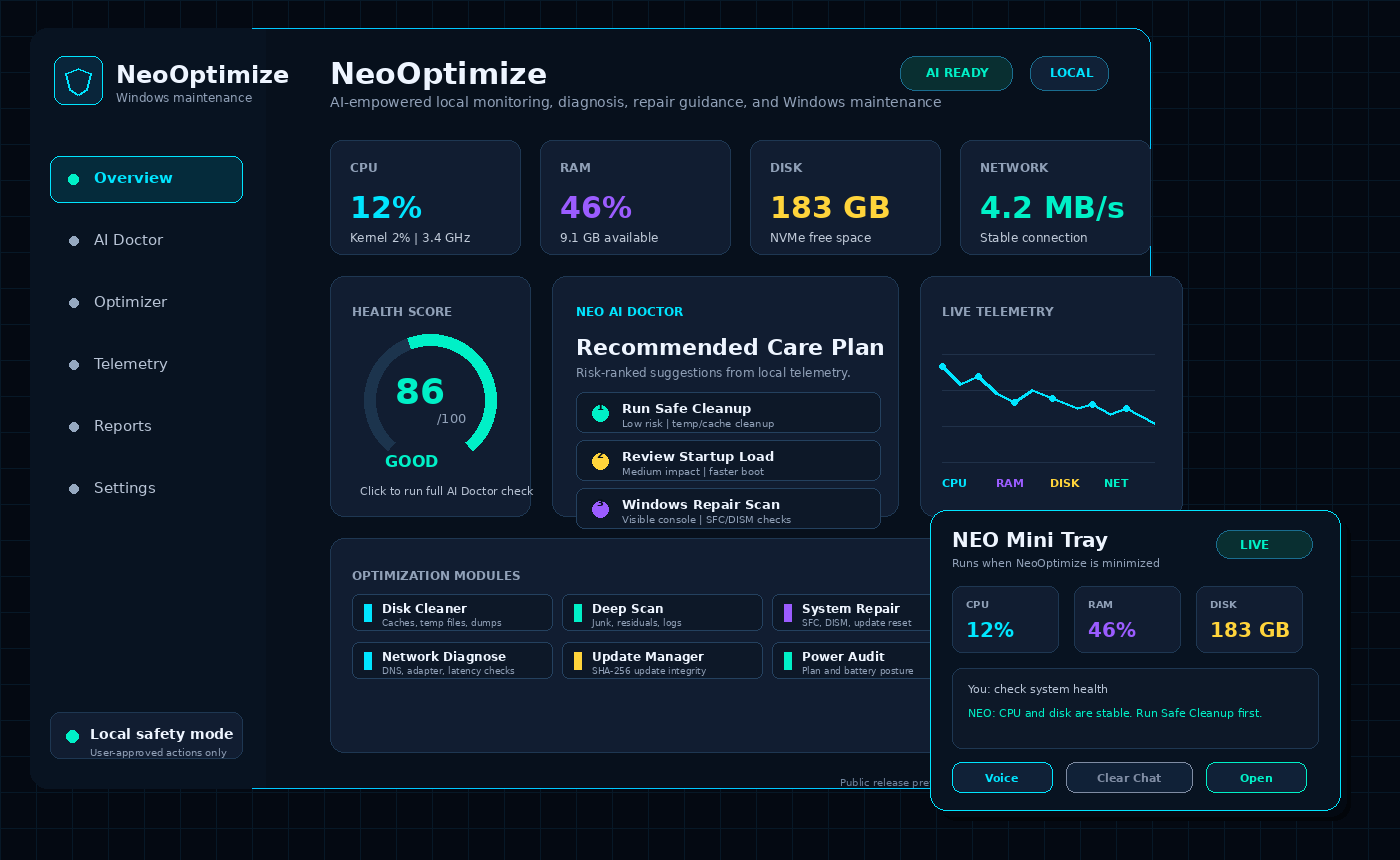
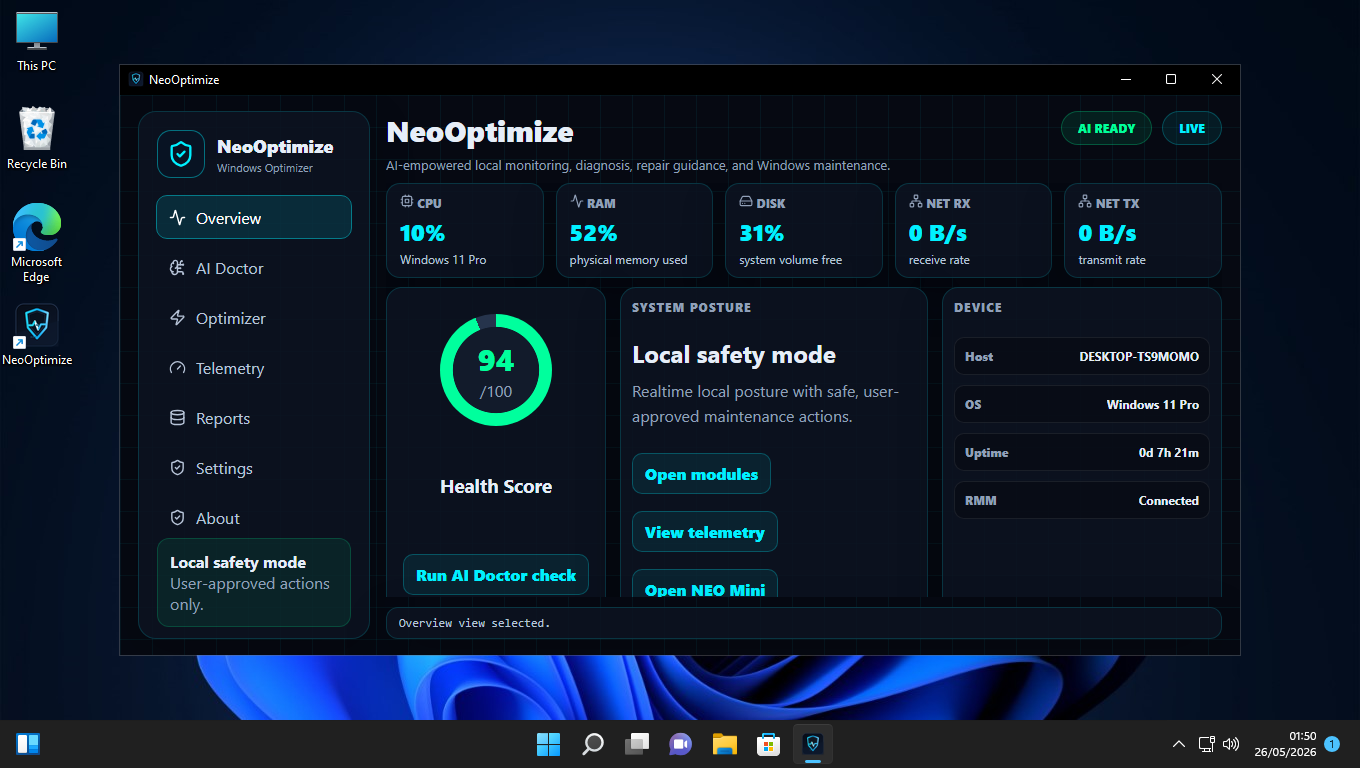
Release NeoOptimize v1.0.3

diff --git a/README.md b/README.md
@@ -5,18 +5,21 @@ local diagnostics, safe cleanup, repair guidance, update integrity checks,
 real-time system monitoring, and before/after maintenance reporting.
 
 The public release focuses on the NeoOptimize desktop application, local safety
-workflow, mini tray companion, update manager, and NEO local assistant features.
+workflow, mini tray companion, update manager, NEO local assistant features, and
+RMM release-gate validation.
 
-![NeoOptimize dashboard and mini tray](assets/neooptimize-screenshot.png)
+![NeoOptimize running in a Windows VM with RMM connected](assets/neooptimize-screenshot.png)
+
+_Latest release-gate screenshot captured from the Windows VM validation run._
 
 ## Download
 
 | Item | Value |
 | --- | --- |
-| Version | `1.0.0` |
+| Version | `1.0.3` |
 | Installer | `NeoOptimize.exe` |
[1 lines of base64/hex data omitted]
-| Release | https://github.com/NeoOptimize/NeoOptimize/releases/tag/v1.0.0 |
[1 lines of base64/hex data omitted]
+| Release | https://github.com/NeoOptimize/NeoOptimize/releases/tag/v1.0.3 |
 
 Verify the installer before running it:
 
@@ -27,7 +30,7 @@ Get-FileHash .\NeoOptimize.exe -Algorithm SHA256
 The hash must match:
 
 ```text
[2 lines of base64/hex data omitted]
 ```
 
 ## What NeoOptimize Does
@@ -54,11 +57,12 @@ Core goals:
 | Main desktop UI | Central dashboard for monitoring, AI Doctor, optimization modules, reports, settings, and update checks. |
 | Mini tray companion | Compact lower-right monitor for CPU, RAM, disk, NEO chat, voice command, clear chat, and quick-open actions. |
 | AI Doctor | Converts local telemetry into a risk-ranked care plan with practical maintenance recommendations. |
-| Optimizer modules | Runs guided cleanup, diagnostics, repair, privacy review, update audit, power audit, and benchmark workflows. |
+| Optimizer modules | Runs guided cleanup, diagnostics, repair, debloat review, privacy review, update audit, power audit, and benchmark workflows. |
 | Safety engine | Keeps privileged actions visible, confirmation-gated, and separated from read-only scans. |
 | Update Manager | Checks release metadata, verifies SHA-256 integrity, installs updates, and repairs damaged installs. |
 | Report engine | Generates local reports for health checks, benchmark results, repairs, and maintenance history. |
 | NEO assistant | Local AI workflow for text guidance, voice entry, anomaly explanation, and script planning assistance. |
+| RMM release gate | Verifies local health probes, Prometheus metrics, dashboard routes, installer download, and VM evidence before release. |
 
 ## Main Features
 
@@ -150,15 +154,35 @@ cannot be silently replaced without detection.
 | Disk Cleaner | Removes temporary files, caches, dumps, logs, and common residual files. |
 | Deep Scan | Searches deeper junk locations before removal and reports findings first. |
 | System Repair | Guides SFC, DISM, WinRE, boot repair, and Windows Update reset workflows. |
+| Windows Repair | Runs conservative Windows repair planning for image, file integrity, recovery, and service state issues. |
+| Update Repair | Reviews Windows Update component health and prepares confirmation-gated repair actions. |
 | Privacy Review | Reviews telemetry-related settings and application permission posture. |
 | Network Diagnose | Checks adapter state, DNS, latency, routing, and connectivity symptoms. |
+| Containerization & Hyper-V | Audits WSL2, Hyper-V, virtualization, and container-related performance posture. |
+| Zero-Trust Security | Reviews Defender, firewall, ASR, SMB, TLS, UAC, exploit protection, and credential protection posture. |
+| Game Mode Ultra | Reviews gaming-related CPU, GPU, scheduler, power, and latency settings before applying high-impact changes. |
+| AI & NPU Caching | Audits local AI, NPU, memory pressure, and model-cache limits for workstation tuning. |
+| NVMe DirectStorage & Storage Tiering | Reviews SSD health, TRIM, BypassIO/DirectStorage readiness, and storage tiering posture. |
 | Update Audit | Reviews Windows Update state and repair options. |
 | Power Audit | Reviews active power plan, battery posture, and performance-related settings. |
+| Power Plan Tuning | Prepares balanced, high-performance, or workstation-specific power recommendations. |
+| Device Snapshot | Captures hardware, driver, OS, and security posture inventory before changes. |
 | Startup Review | Helps identify startup entries that slow down boot. |
 | Service Review | Reviews service state and startup behavior before any change is applied. |
 | Security Audit | Reviews Defender, firewall, ASR, UAC, SMB, TLS, and exploit protection posture. |
 | Benchmark | Captures before/after metrics so maintenance impact can be measured. |
+| Remote Access Readiness | Checks RDP, WinRM, firewall, network profile, and admin readiness without silently enabling access. |
 | Report Export | Saves local reports for later troubleshooting or support review. |
+
+## Release Validation
+
+The `1.0.3` release gate completed with:
+
+- RMM live endpoint smoke for `/health`, `/healthz`, `/readyz`, `/livez`, `/api/v1/health`, `/api/v1/metrics`, and `/downloads/NeoOptimize.exe`.
+- RMM browser smoke across dashboard routes with no console errors and no HTTP 4xx/5xx responses.
+- Server Jest suite: `55/55` tests across `16` suites.
+- Python AI engine tests: `3/3`.
+- Client-nextgen production build, .NET agent build, UI wrapper build, public bundle verifier, and installer rebuild.
 
 ## Safety Model
 

diff --git a/CHANGELOG.md b/CHANGELOG.md
@@ -1,5 +1,33 @@
 # Changelog
 
+## 1.0.3 RMM Runtime Health & VM Release Gate
+
+Release date: 2026-05-26
+
+### Fixed
+
+- RMM health checks no longer mark a healthy Node.js process as degraded from small-heap startup memory ratios.
+- Prometheus metrics export now uses the live application metrics registry and emits valid quoted labels.
+- Fastify request metrics middleware now completes callback flow correctly.
+- Bootstrap authentication tests use a lower bcrypt cost because they validate session flow, not password-hash benchmark timing.
+
+### Improved
+
+- Windows VM release-gate evidence now includes QEMU guest-agent status, detected guest IP, remote-control port scan, and screenshot capture.
+- Guest execution is marked blocked when QGA, SSH, WinRM, and RDP are unavailable instead of silently skipping guest validation.
+- Public README now shows the latest VM validation screenshot and v1.0.3 installer checksum.
+
+### Verification
+
+- RMM live endpoint smoke passed for `/health`, `/healthz`, `/readyz`, `/livez`, `/api/v1/health`, `/api/v1/metrics`, and `/downloads/NeoOptimize.exe`.
+- RMM browser smoke passed across dashboard routes with no console errors and no HTTP 4xx/5xx responses.
+- Server Jest suite passed: `55/55` tests across `16` suites.
+- Python AI engine tests passed: `3/3`.
+- Client-nextgen production build passed.
+- .NET agent and UI wrapper builds passed.
+- Public bundle verifier passed.
[1 lines of base64/hex data omitted]
+
 ## 1.0.0 Public Release
 
 Release date: 2026-05-25

diff --git a/distribution/README.md b/distribution/README.md
@@ -8,13 +8,13 @@ NeoOptimize prepares three public Windows distribution paths:
 | Chocolatey | `neooptimize` | Uses the public NSIS installer with SHA-256 verification. |
 | Scoop | `neooptimize` | Planned for a later user-space package. |
 
-The current release is `1.0.0`.
+The current release is `1.0.3`.
 
 ## Release Assets
 
 | Asset | SHA-256 |
 | --- | --- |
[2 lines of base64/hex data omitted]
 
 ## WinGet
 
